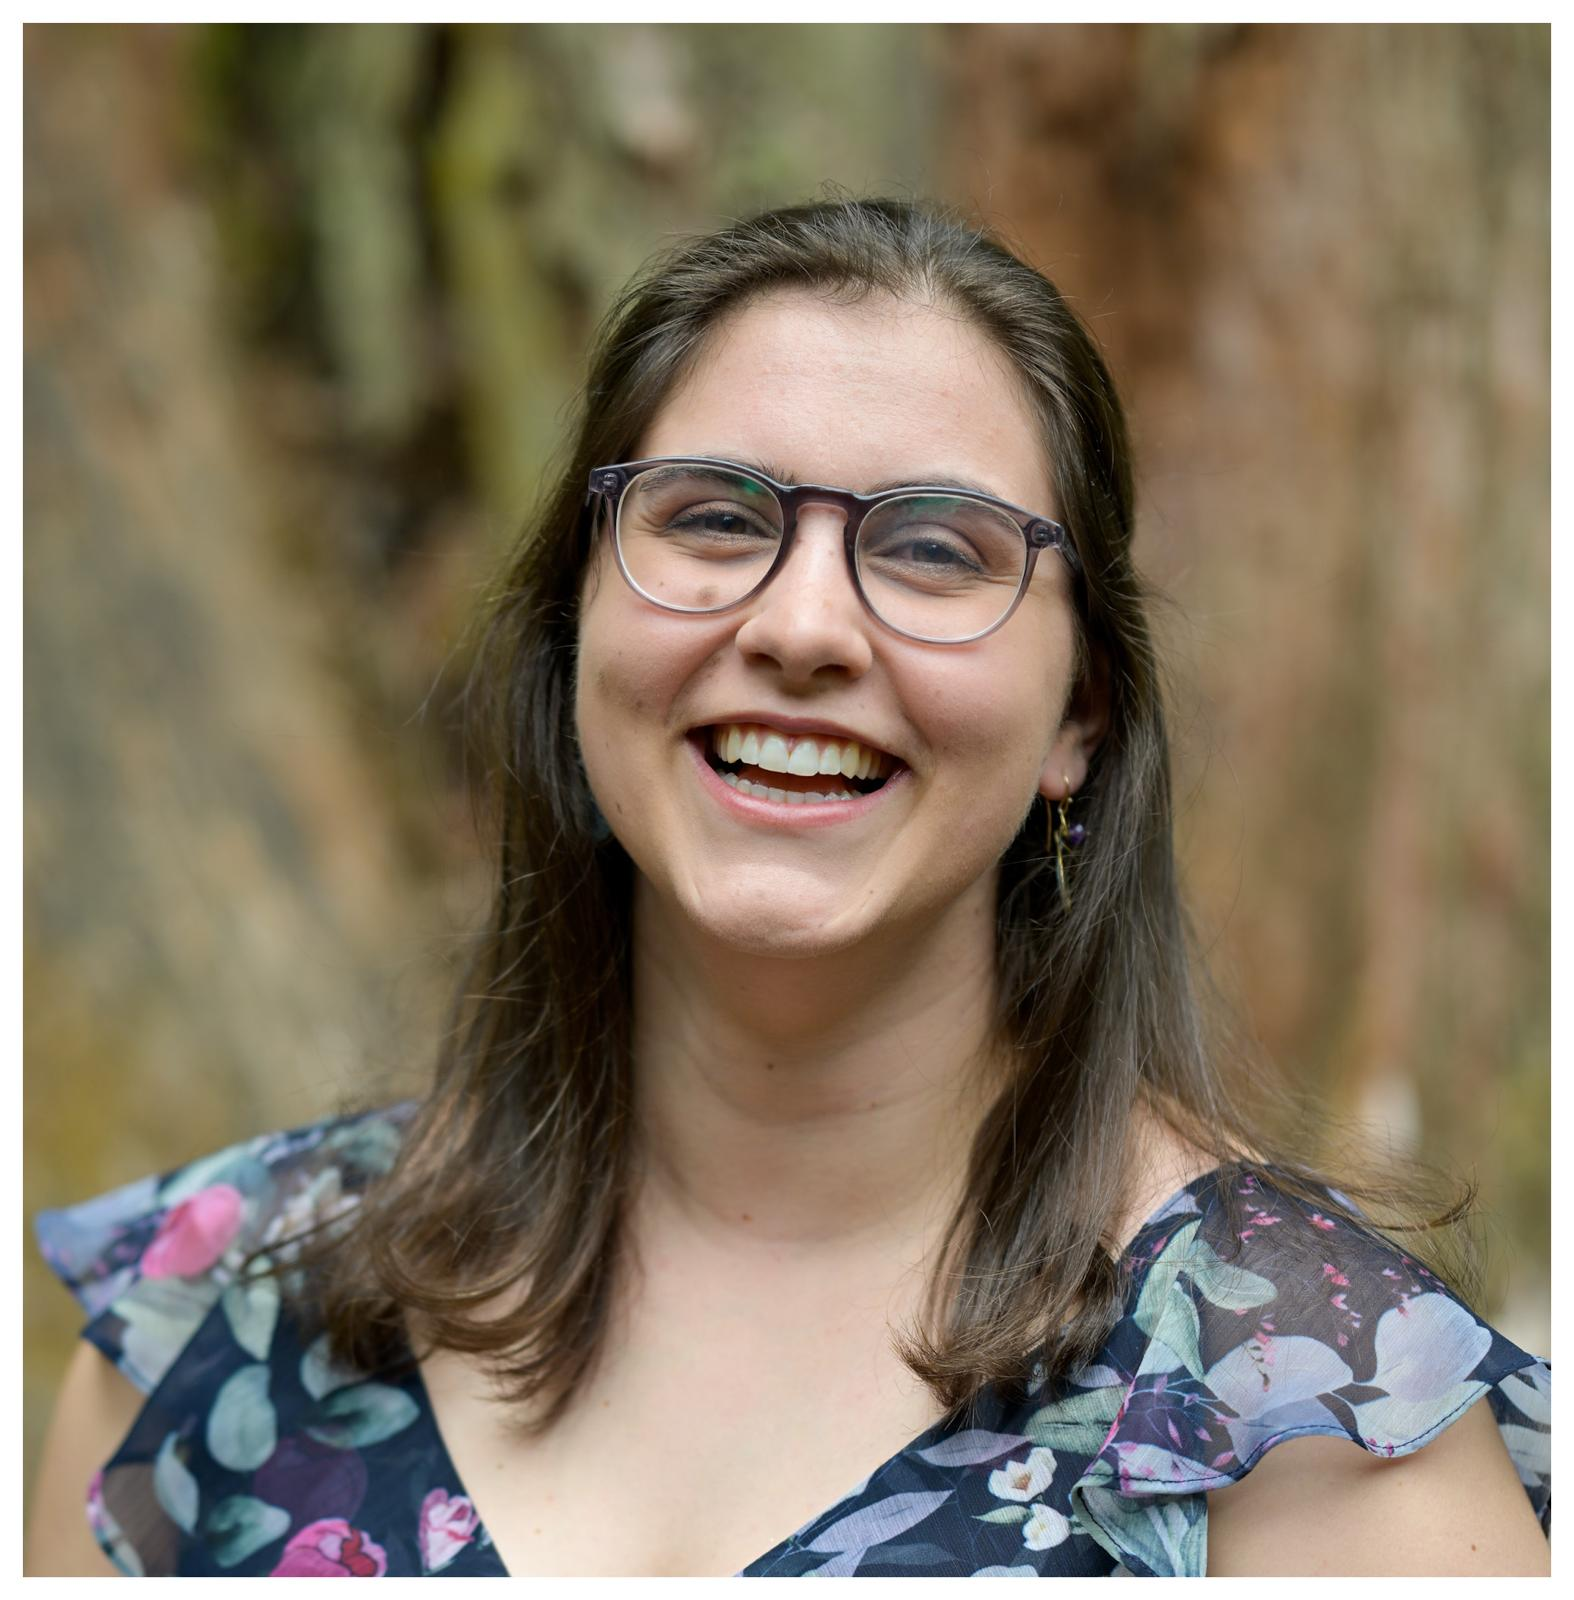
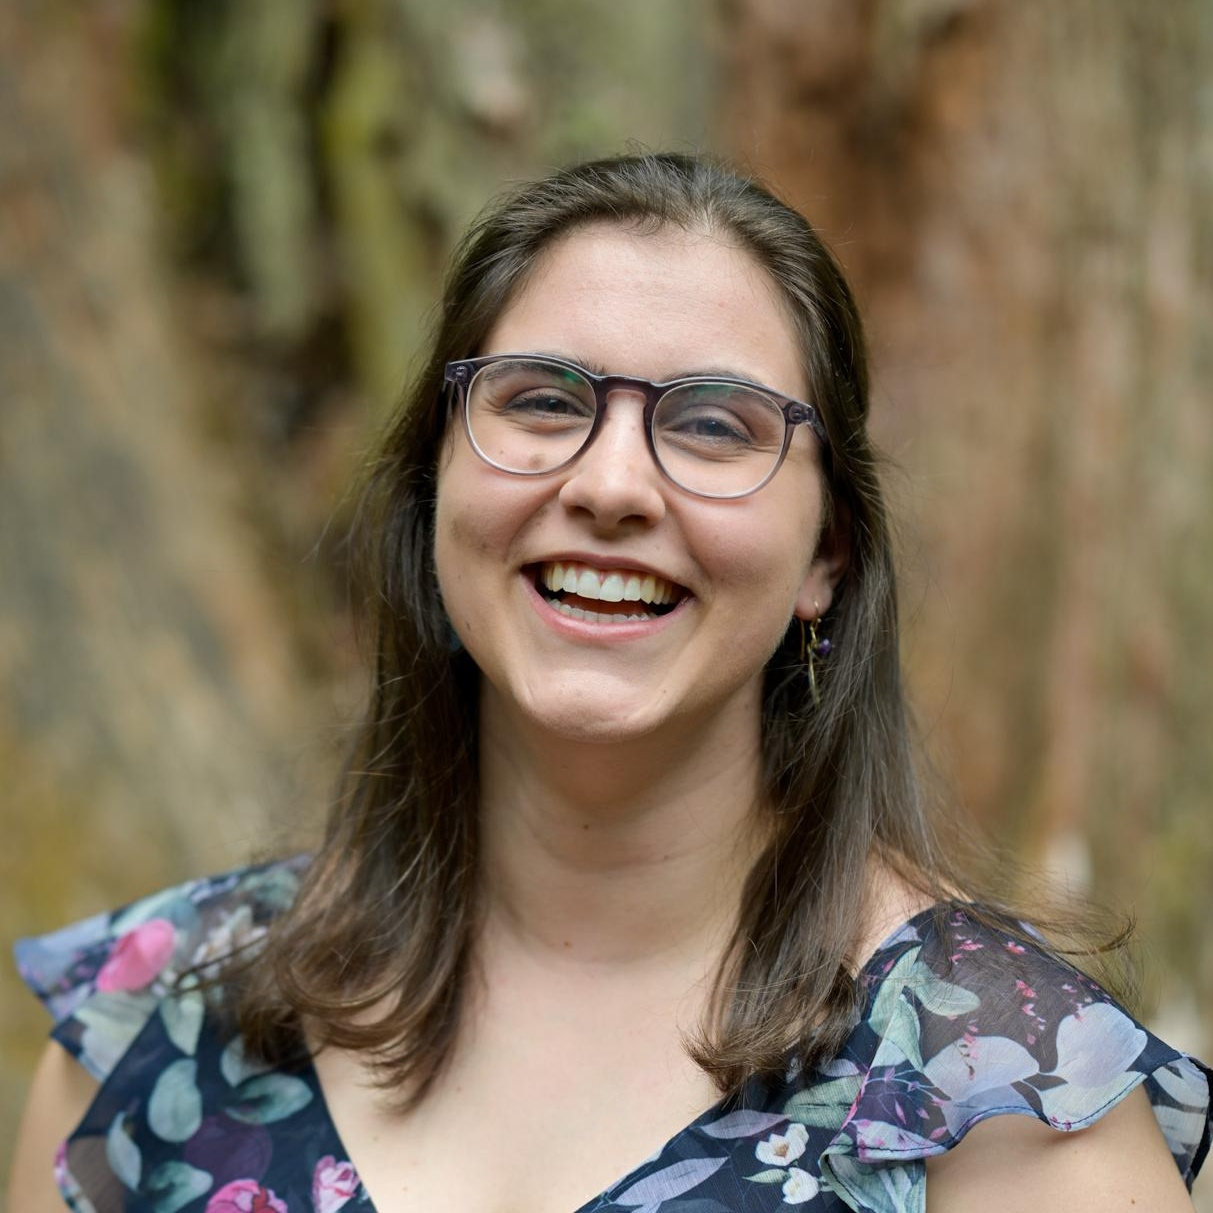
Content & layout improvements

diff --git a/themes/hugoplate/layouts/index.html b/themes/hugoplate/layouts/index.html
@@ -3,30 +3,18 @@
   {{ with .Params.banner }}
     <section class="section pt-14">
       <div class="container">
-        <div class="row justify-center">
-          <div class="lg:col-7 md:col-9 mb-8 text-center">
-            <h1 class="mb-4 text-h3 lg:text-h1">
-              {{ .title | markdownify }}
-            </h1>
-            <p class="mb-8">
-              {{ .content | markdownify }}
-            </p>
-            {{ with .button }}
-              {{ if .enable }}
-                <a
-                  class="btn btn-primary"
-                  href="{{ .link | absURL }}"
-                  {{ if strings.HasPrefix .link `http` }}
-                    target="_blank" rel="noopener"
-                  {{ end }}>
-                  {{ .label }}
-                  <i class="fa fa-arrow-right pl-2"></i>
-                </a>
-              {{ end }}
-            {{ end }}
-          </div>
-          <div class="col-12">
-            {{ partial "image" (dict "Src" .image "Alt" "Banner image" "Loading" "eager" "Class" "mx-auto md:!max-w-[400px] lg:!max-w-[500px]" "DisplayXL" "500x" ) }}
+        <div class="flex flex-row justify-center gap-3 flex-wrap">
+            <div class="flex flex-col gap-7 max-w-md place-content-center">
+              <p class="text-4xl md:text-3xl text-center md:text-left mr-10 md:mr-0">
+                {{ .tagline1 | markdownify }}
+              </p>
+            
+              <p class="text-5xl font-semibold leading-[1.15] ml-10 text-center md:text-left">{{ .tagline2 | markdownify }}</p>
+
+              <p class="text-3xl mb-5 md:mb-12 text-center md:text-left">{{ .tagline3 | markdownify }}</p>
+            </div>
+          <div class="">
+            {{ partial "image" (dict "Src" .image "Alt" "Banner image" "Loading" "eager" "Class" "mx-auto md:!max-w-[400px] lg:!max-w-[500px] rounded-sm" "DisplayXL" "500x" ) }}
           </div>
         </div>
       </div>

diff --git a/themes/hugoplate/layouts/partials/essentials/footer.html b/themes/hugoplate/layouts/partials/essentials/footer.html
@@ -1,6 +1,6 @@
-<footer class="bg-theme-light dark:bg-darkmode-theme-light">
+<footer class="footer">
   <div class="container">
-    <div class="row items-center py-10">
+    <div class="row items-center py-5">
       <div class="lg:col-3 mb-8 text-center lg:mb-0 lg:text-left">
         <!-- navbar brand/logo -->
         <a
@@ -12,7 +12,7 @@
       <div class="lg:col-6 mb-8 text-center lg:mb-0">
         <ul>
           {{ range site.Menus.footer }}
-            <li class="m-3 inline-block">
+            <li class="m-3 inline-block text-lg">
               <a
                 {{ if findRE `^http` .URL }}
                   target="_blank" rel="noopener"
@@ -28,6 +28,13 @@
               >
             </li>
           {{ end }}
+          <li class="mx-3 opacity-50">
+            <a
+                target="_blank" rel="noopener"
+                href=""
+                >{{ site.Params.copyright | markdownify }}</a
+              >
+          </li>
         </ul>
       </div>
       <div class="lg:col-3 mb-8 text-center lg:mb-0 lg:mt-0 lg:text-right">
@@ -47,11 +54,11 @@
       </div>
     </div>
   </div>
-  <div class="border-border dark:border-darkmode-border border-t py-7">
+  {{/*  <div class="border-border dark:border-darkmode-border border-t py-4">
     <div class="text-light dark:text-darkmode-light container text-center">
       <p>
         {{ site.Params.copyright | markdownify }}
       </p>
     </div>
-  </div>
+  </div>  */}}
 </footer>

diff --git a/themes/hugoplate/layouts/partials/essentials/header.html b/themes/hugoplate/layouts/partials/essentials/header.html
@@ -38,7 +38,7 @@
         {{ $pageURL:= $currentPage.Permalink | absLangURL }}
         {{ $active := eq $menuURL $pageURL }}
         {{ if .HasChildren }}
-          <li class="nav-item nav-dropdown group relative">
+          <li class="nav-item nav-dropdown group relative text-xl">
             <span
               class="nav-link {{ range .Children }}
                 {{ $childURL := .URL | absLangURL }}
@@ -79,7 +79,7 @@
             </ul>
           </li>
         {{ else }}
-          <li class="nav-item">
+          <li class="nav-item text-xl">
             <a
               class="nav-link {{ if $active }}active{{- end -}}"
               {{ if findRE `^http` .URL }}

diff --git a/themes/hugoplate/layouts/contact/list.html b/themes/hugoplate/layouts/contact/list.html
@@ -1,9 +1,15 @@
 {{ define "main" }}
-  {{ partial "page-header" . }}
-
-
   <section class="section-sm">
     <div class="container">
+      {{ with .Params.banner }}
+        <div class="mb-8 md:col-10 lg:col-6 text-center mx-auto">
+          <div class="flex flex-col gap-3">
+            <h1 class="h2">{{ .tagline }}</h1>
+            <p class="text-lg">{{ .longertext }}</p>
+          </div>
+        </div>
+      {{ end }}
+
       <div class="row">
         <div class="md:col-10 lg:col-6 mx-auto">
           <form action="{{ site.Params.contact_form_action }}" method="POST">

diff --git a/themes/hugoplate/layouts/about/list.html b/themes/hugoplate/layouts/about/list.html
@@ -5,7 +5,7 @@
         <div class="md:col-10 lg:col-7 text-center">
           <div class="flex flex-row place-content-center mb-6">
             <div class="">
-              {{ partial "image" (dict "Src" .Params.image "Context" .Page "Alt" .Title "Class" "rounded-3xl" "Size" "270x270") }}
+              {{ partial "image" (dict "Src" .Params.image "Context" .Page "Alt" .Title "Class" "rounded-full" "Size" "270x270") }}
             </div>
           </div>
           <h2 class="h3 mb-6">{{ .Title }}</h2>

diff --git a/themes/hugoplate/assets/scss/navigation.scss b/themes/hugoplate/assets/scss/navigation.scss
@@ -12,7 +12,11 @@ input#nav-toggle:checked ~ #nav-menu {
 }
 
 .header {
-  @apply bg-body dark:bg-darkmode-body py-3;
+  @apply bg-theme-light dark:bg-darkmode-theme-light py-3;
+}
+
+.footer {
+  @apply bg-theme-light dark:bg-darkmode-theme-light
 }
 
 // navbar items

diff --git a/content/english/_index.md b/content/english/_index.md
@@ -2,52 +2,54 @@
 # Banner
 banner:
   title: "Wed by Lyd"
-  content: "Congratulations on your engagement!"
-  image: "/images/avatar.jpg"
+  tagline1: "Kia ora! I'm Lydia,"
+  tagline2: "a wedding celebrant & your greatest supporter"
+  tagline3: "I can't wait to make your special day meaningful, memorable and tailored to you and your partner."
+  image: "/images/portrait-main.jpg"
   button:
     enable: true
     label: "Get in touch"
     link: "https://github.com/zeon-studio/hugoplate"
 
-# Features
-features:
-  - title: "What's Included in Hugoplate"
-    image: "/images/service-1.png"
-    content: "Hugoplate is a comprehensive starter template that includes everything you need to get started with your Hugo project. What's Included in Hugoplate"
-    bulletpoints:
-      - "10+ Pre-build pages"
-      - "95+ Google Pagespeed Score"
-      - "Build with Hugo and TailwindCSS for easy and customizable styling"
-      - "Fully responsive on all devices"
-      - "SEO-optimized for better search engine rankings"
-      - "**Open-source and free** for personal and commercial use"
-    button:
-      enable: false
-      label: "Get Started Now"
-      link: "#"
+# # Features
+# features:
+#   - title: "What's Included in Hugoplate"
+#     image: "/images/service-1.png"
+#     content: "Hugoplate is a comprehensive starter template that includes everything you need to get started with your Hugo project. What's Included in Hugoplate"
+#     bulletpoints:
+#       - "10+ Pre-build pages"
+#       - "95+ Google Pagespeed Score"
+#       - "Build with Hugo and TailwindCSS for easy and customizable styling"
+#       - "Fully responsive on all devices"
+#       - "SEO-optimized for better search engine rankings"
+#       - "**Open-source and free** for personal and commercial use"
+#     button:
+#       enable: false
+#       label: "Get Started Now"
+#       link: "#"
 
-  - title: "Discover the Key Features Of Hugo"
-    image: "/images/service-2.png"
-    content: "Hugo is an all-in-one web framework for building fast, content-focused websites. It offers a range of exciting features for developers and website creators. Some of the key features are:"
-    bulletpoints:
-      - "Zero JS, by default: No JavaScript runtime overhead to slow you down."
-      - "Customizable: Tailwind, MDX, and 100+ other integrations to choose from."
-      - "UI-agnostic: Supports React, Preact, Svelte, Vue, Solid, Lit and more."
-    button:
-      enable: true
-      label: "Get Started Now"
-      link: "https://github.com/zeon-studio/hugoplate"
+#   - title: "Discover the Key Features Of Hugo"
+#     image: "/images/service-2.png"
+#     content: "Hugo is an all-in-one web framework for building fast, content-focused websites. It offers a range of exciting features for developers and website creators. Some of the key features are:"
+#     bulletpoints:
+#       - "Zero JS, by default: No JavaScript runtime overhead to slow you down."
+#       - "Customizable: Tailwind, MDX, and 100+ other integrations to choose from."
+#       - "UI-agnostic: Supports React, Preact, Svelte, Vue, Solid, Lit and more."
+#     button:
+#       enable: true
+#       label: "Get Started Now"
+#       link: "https://github.com/zeon-studio/hugoplate"
 
-  - title: "The Top Reasons to Choose Hugo for Your Hugo Project"
-    image: "/images/service-3.png"
-    content: "With Hugo, you can build modern and content-focused websites without sacrificing performance or ease of use."
-    bulletpoints:
-      - "Instantly load static sites for better user experience and SEO."
-      - "Intuitive syntax and support for popular frameworks make learning and using Hugo a breeze."
-      - "Use any front-end library or framework, or build custom components, for any project size."
-      - "Built on cutting-edge technology to keep your projects up-to-date with the latest web standards."
-    button:
-      enable: false
-      label: ""
-      link: ""
+#   - title: "The Top Reasons to Choose Hugo for Your Hugo Project"
+#     image: "/images/service-3.png"
+#     content: "With Hugo, you can build modern and content-focused websites without sacrificing performance or ease of use."
+#     bulletpoints:
+#       - "Instantly load static sites for better user experience and SEO."
+#       - "Intuitive syntax and support for popular frameworks make learning and using Hugo a breeze."
+#       - "Use any front-end library or framework, or build custom components, for any project size."
+#       - "Built on cutting-edge technology to keep your projects up-to-date with the latest web standards."
+#     button:
+#       enable: false
+#       label: ""
+#       link: ""
 ---

diff --git a/content/english/about/_index.md b/content/english/about/_index.md
@@ -1,9 +1,13 @@
 ---
-title: "Hey, I am Lydia Tomic!"
+title: "Hey, I'm Lydia Tomic!"
+tagline: "Certified people person, adventure lover, and rabbit mum."
 meta_title: "About"
 description: "this is meta description"
 image: "/images/avatar.jpg"
 draft: false
 ---
 
-Lorem ipsum dolor sit amet consectetur adipisicing elit. Corporis illum nesciunt commodi vel nisi ut alias excepturi ipsum, totam, labore tempora, odit ex iste tempore sed. Fugit voluptatibus perspiciatis assumenda nulla ad nihil, omnis vel, doloremque sit quam autem optio maiores, illum eius facilis et quo consectetur provident dolor similique! Enim voluptatem dicta expedita veritatis repellat dolorum impedit, provident quasi at.
+I moved down to Christchurch two years ago from the north island and love to be in the great outdoors. On my days off you'll find me tramping, rock climbing, or hanging out with my rabbit, Milo.
+
+I have a wealth of experience both as a mental health support worker and as a rock climbing instructor. So I am very used to helping anxious people feel comfortable! I will ensure your wedding ceremony is run with confidence, ease, and humour to keep you relaxed and enjoying your big day.
+

diff --git a/content/english/contact/_index.md b/content/english/contact/_index.md
@@ -3,6 +3,7 @@ title: "Contact"
 meta_title: ""
 description: "Contact Lyd to find out about availability, services, and pricing"
 draft: false
+banner:
+    tagline: I want to marry you!
+    longertext: Get in touch to find out about availability, services, and pricing.
 ---
-
-Get in touch to find out about availability, services, and pricing
